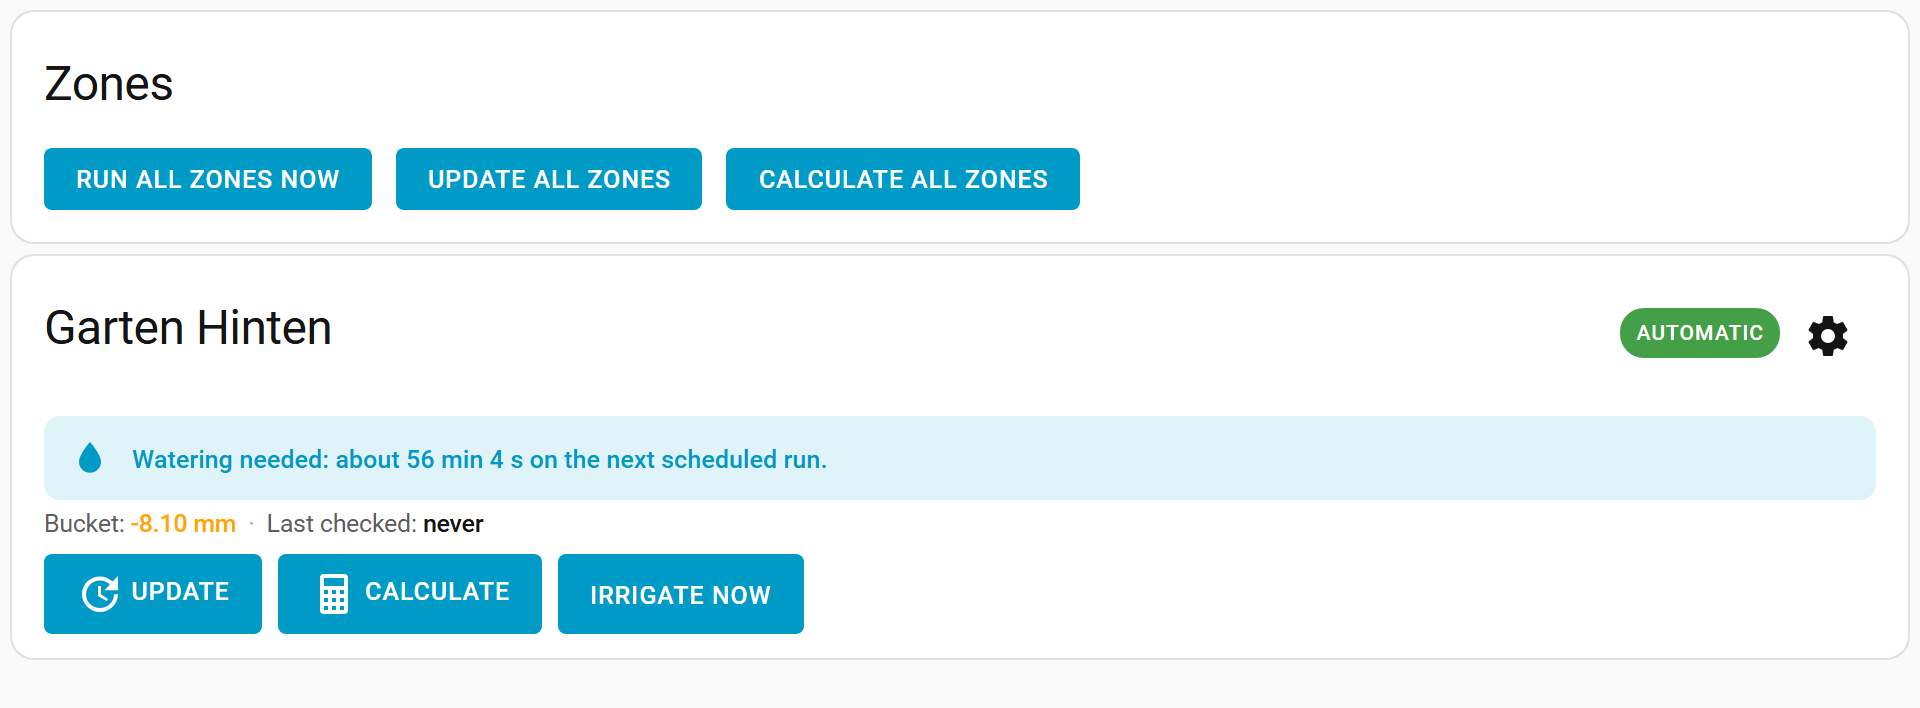
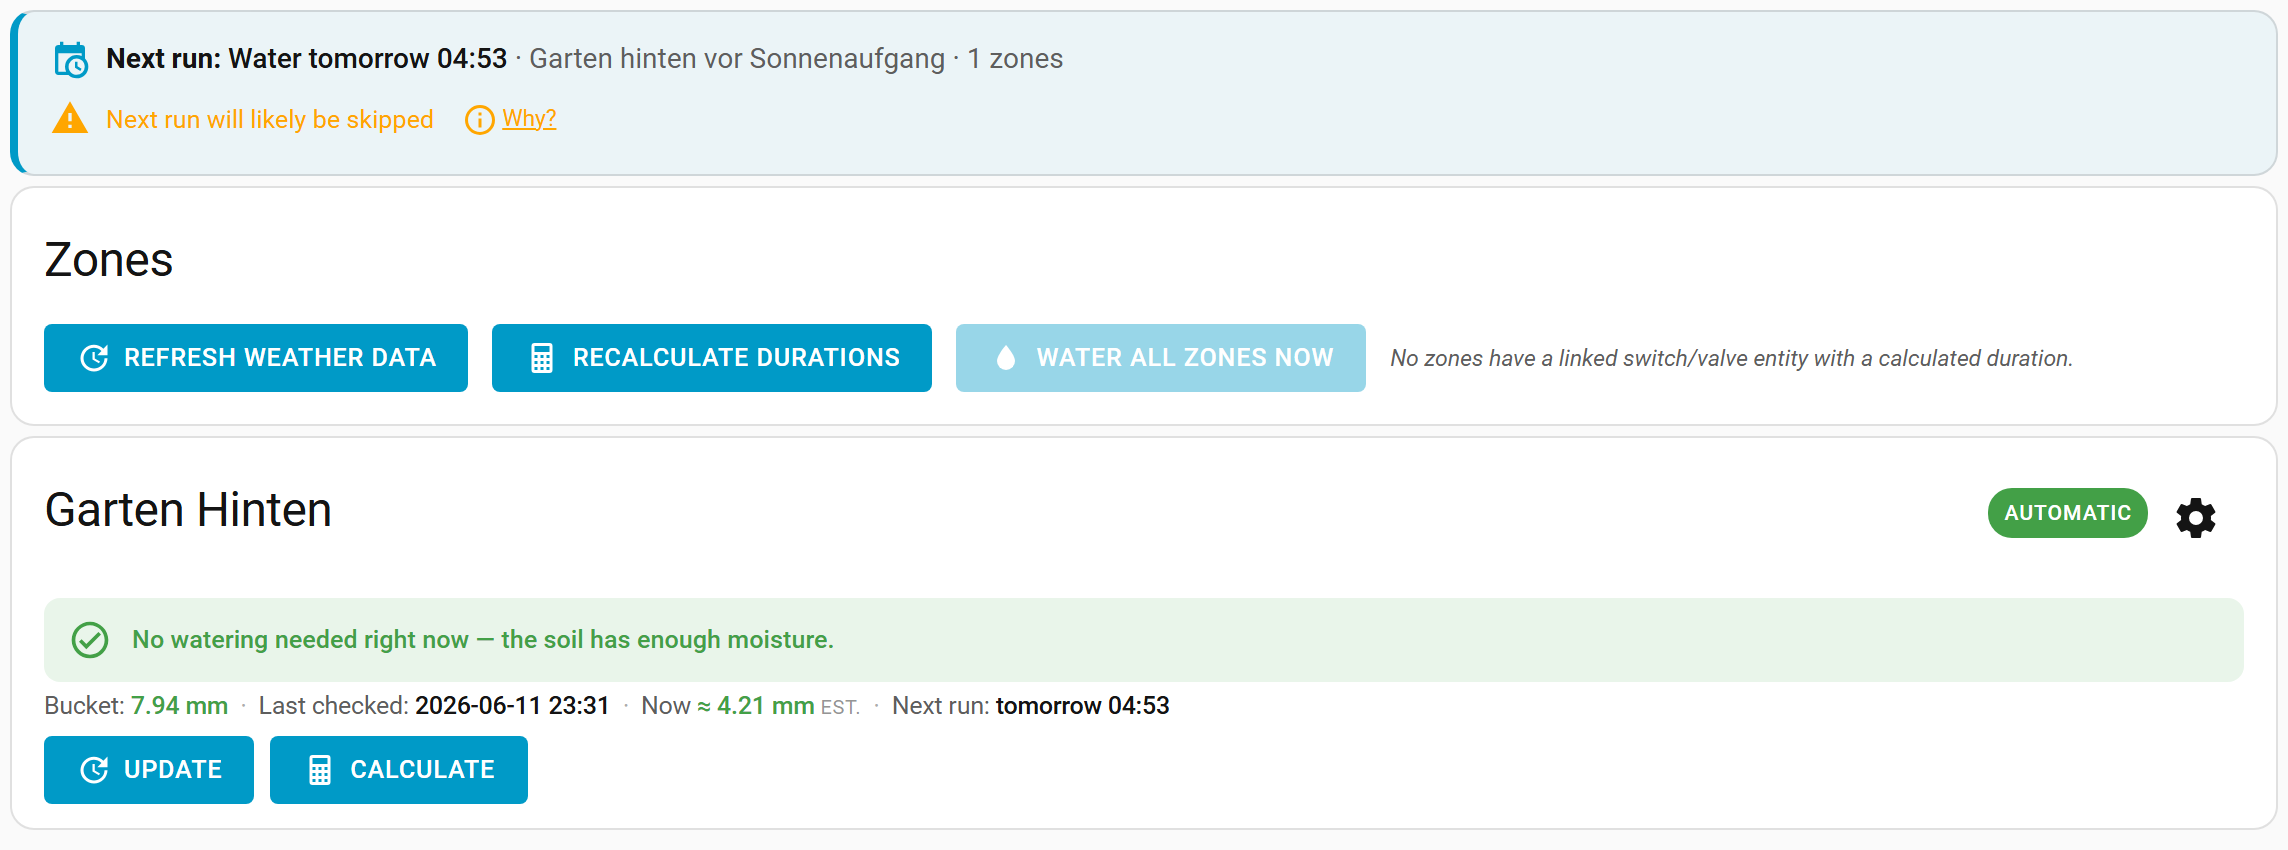
docs: fix remaining configuration drift + refresh dashboard screenshot
Second pass over the configuration pages against the live UI:
- zones: document the Flow meter sensor and Minimum deficit to irrigate
  fields; settings are shown inline (no "Settings" accordion); remove the
  per-zone "View weather data" / "View watering calendar" tools (they moved
  to the Weather & Location tab); correct the dashboard button labels
- general: drop the contradictory "weather data is deleted after
  calculation" claim (data is consumed per-zone and pruned); fix a typo
- configuration: fix Setup-wizard access wording; correct what the
  Weather & Location and My Zones tabs actually show
- services: remove the obsolete delete_weather_data parameter; add set_state
- re-capture configuration-1.png (old global button labels were stale)

Changed region(s): [[0.0, 0.0, 1.0, 0.5282], [0.0, 0.5593, 1.0, 0.9633], [0.9688, 0.1864, 1.0, 0.2175]]

diff --git a/docs/configuration-zones.md b/docs/configuration-zones.md
@@ -20,7 +20,7 @@ Specify one or more irrigation zones here. The integration calculates irrigation
 Zones appear in two places:
 
 - The top-level **Zones** tab is the everyday **dashboard**. Each zone card shows an at-a-glance verdict (e.g. *"Watering needed: ~6 min"*, *"No watering needed"* or *"Turned off"*), a one-line status (bucket and when it was last checked), and the operational buttons **Update**, **Calculate** and **Irrigate now**. A gear icon on each card opens that zone's settings.
-- **Setup → My Zones** is where you **add, configure and delete** zones, and view per-zone reporting (calculation explanation, weather data, watering calendar). The sections below ("Adding a zone", "Configuring a zone") all live here.
+- **Setup → My Zones** is where you **add, configure and delete** zones, and view each zone's **calculation explanation**. (Weather records, the forecast and the watering calendar are no longer per-zone — they live once on the **Weather & Location** tab.) The sections below ("Adding a zone", "Configuring a zone") all live here.
 
 ## Multi-zone support
 For irrigation systems that have multiple zones which you want to run in series or independent you need to create multiple zones. The configuration should be done for each zone, including the area the zone covers and the corresponding settings.
@@ -32,18 +32,18 @@ Zones are added and configured under **Setup → My Zones**. Click the **+** but
 - **Size**: The size of this zone (m<sup>2</sup> or sq ft)
 - **Throughput**: The flow of this zone (liter/minute or gallon/minute)
 
-After clicking **Add**, the new zone appears in the list (and as an entity in Home Assistant). Expand its **Settings** to finish configuring it.
+After clicking **Add**, the new zone appears in the list (and as a device with entities in Home Assistant), with its settings shown directly underneath so you can finish configuring it.
 
 ![](assets/images/configuration-zones-1.png)
 
 ## Actions on all automatic Zones
 These bulk actions are split across the two surfaces:
 
-- **Update all zones** / **Calculate all zones** — on the **Zones** dashboard (top tab): collect weather data for, and recalculate the duration of, every automatic zone.
+- **Refresh weather data** / **Recalculate durations** / **Water all zones now** — on the **Zones** dashboard (top tab): collect weather data for, recalculate the duration of, or immediately irrigate every automatic zone.
 - **Reset all buckets** / **Clear all weather data** — under **Setup → My Zones → Bulk Actions**: reset every automatic zone's bucket to `0`, or remove all collected weather data for the [sensor groups](configuration-sensor-groups.md) in use. Both ask for confirmation first.
 
 ## Configuring a zone
-Open **Setup → My Zones**, expand a zone's **Settings**, and you can change:
+Open **Setup → My Zones**. Each zone's settings are shown directly under its name (no need to expand anything), and you can change:
 
 - **Name**: change the name of a zone
 - **Size**: change the size of a zone
@@ -55,6 +55,8 @@ Open **Setup → My Zones**, expand a zone's **Settings**, and you can change:
   - _Disabled_: The zone is disabled. No updating and calculation of that zone. Setting a [module](configuration-modules.md) and [sensor group](configuration-sensor-groups.md) on the zone is optional.
 - **Module**: Choose the [calculation module](configuration-modules.md) that should be used to calculate irrigation for the zone.
 - **Sensor group**: Choose the [sensor group](configuration-sensor-groups.md) that provides the weather data for this zone.
+- **Linked switch/valve entity**: Optionally control a valve directly — see [Linked entity](#linked-entity) below.
+- **Flow meter sensor** (optional): A sensor reporting the zone's actual water flow. When set, irrigation can run until the measured volume is reached instead of relying purely on the calculated time.
 - **Bucket**: Either calculated or manually set. If `bucket >= 0` then no irrigation is necesarry, if `bucket < 0` irrigation is necessary. See [automations](usage-automations.md) for examples on how to use this value to decide to irrigate.
 - **Maximum bucket**: You can manually set a maximum bucket size which represents the soil's water holding capacity. The maximum recommended bucket size is based on the type of soil:
     - clay soil: 30 mm (1.18")
@@ -66,7 +68,8 @@ This recommendation is based on the soil water holding capacity. See [this discu
 - **Multiplier**: Multiplies / divides the duration of the irrigation. For lawns, it is recommended to set the multiplier depending on your grass type (See [this discussion for more details](https://github.com/JustChr/HAsmartirrigation/discussions/448)):
     * Cool-reason grasses (such as fescue, bluegrass) should be set to `0.8`
     * Warm-season grasses (such as bermuda, zoysia) should be set to `0.7`. 
-- **Duration**: Irrigation duration in seconds. Either calculated or manually set.
+- **Minimum deficit to irrigate**: How large the moisture deficit must be before the zone is considered to need watering. It is stored as a 0-or-negative value (mm/inch); the default is `-10`, meaning the bucket must reach −10 mm before irrigation is triggered. Set it to `0` to irrigate as soon as there is any deficit, or to a more negative value to water less often but more deeply.
+- **Duration**: Irrigation duration in seconds. Either calculated or manually set (manual zones only).
 
 ### Linked entity {#linked-entity}
 
@@ -89,15 +92,15 @@ On the **Zones** dashboard, each zone card shows an at-a-glance verdict, a one-l
 ![](assets/images/configuration-zones-2.png)
 
 * **Update** — Collect weather data from the sensor group for the zone.
-* **Calculate** — Recalculate the zone's irrigation duration. Weather data for the zone's sensor group is deleted after calculation.
+* **Calculate** — Recalculate the zone's irrigation duration. The zone consumes only the weather data it needs (the shared buffer is kept for other zones and pruned automatically).
 * **Irrigate Now** — Immediately turn on the zone's [linked entity](#linked-entity) for the calculated duration, then turn it off. Bypasses all skip conditions. Shown disabled with a hint until the zone has a linked entity.
 
-The remaining per-zone tools live under **Setup → My Zones**, in each zone's expandable panels:
+The remaining per-zone tools live under **Setup → My Zones**:
 
-* **Calculation explanation** — After a calculation, a detailed breakdown of how the bucket was updated and how the lead time and multiplier affected the final duration.
-* **View weather data** — The last 10 weather data records for the zone's sensor group.
-* **View watering calendar** — View a 12-month estimated watering calendar based on the zone's location and typical weather patterns.
-* **Delete** — Remove the zone. 
+* **Calculation explanation** — Expand a zone's **Information** panel for a detailed breakdown of how the bucket was updated and how the lead time and multiplier affected the final duration.
+* **Delete** — Remove the zone.
+
+> Weather records, the forecast and the 12-month watering calendar are no longer shown per zone — they apply to your whole location, so they now live once on the **Weather & Location** tab.
 
 > Main page: [Configuration](configuration.md)<br/>
 > Previous: [General configuration](configuration-general.md)<br/>

diff --git a/docs/configuration-general.md b/docs/configuration-general.md
@@ -15,12 +15,12 @@ This page covers the global, set-once settings. In the panel they are spread acr
 The settings below are documented together by topic.
 
 ### Automatic weather data update
-If enabled, specify how often sensor update should happen (minutes, hours, days). You can also set up an update delay to be used to delay the first update. THis is useful in case your sensors do not provide a value immediately after Home Assistant starts.
+If enabled, specify how often the weather-data update should happen (minutes, hours, days). You can also set an update delay to postpone the first update — useful in case your sensors do not provide a value immediately after Home Assistant starts.
 
-As calculation needs weatherdata make sure to update your weather data at least once before calculating.
+As calculation needs weather data, make sure to update your weather data at least once before calculating.
 
 ### Automatic duration calculation
-If enabled, set the time of calculation (HH:MM). Calculation uses weatherdata that is collected in updates to determine irrigation duration. After automatic calculation has happened used weatherdata is deleted.
+If enabled, set the time of calculation (HH:MM). Calculation uses the weather data collected by updates to determine the irrigation duration. During calculation each zone consumes only the readings it needs (anchored to its own watermark) — the shared weather data is **not** wiped, so other zones keep their history.
 
 > **Note:** weather data is now pruned **automatically**. Each zone consumes the weather data it needs during calculation, and old readings are pruned from the shared buffer once every zone that needs them has consumed them (with a hard cap of a few days). There is no longer a "pruning time" to configure, and the old timed *auto-clear* setting has been removed. You can still wipe everything manually via **Setup → My Zones → Bulk Actions → Clear all weather data**.
 

diff --git a/docs/configuration.md b/docs/configuration.md
@@ -10,7 +10,7 @@ You configure the integration from the Smart Irrigation panel in the Home Assist
 
 ## First-run setup wizard
 
-The first time you open the panel — or any time from **Setup → Setup wizard** — a guided wizard walks you through the four building blocks in order:
+The first time you open the panel — or any time via the **Setup wizard** button (top-right of the Setup tabs) — a guided wizard walks you through the four building blocks in order:
 
 ![](assets/images/setup-wizard-1.png)
 
@@ -27,8 +27,8 @@ The panel has two top-level areas:
 
 - **Zones** — the everyday **dashboard**. For each zone it shows at a glance whether it will water and why, plus one-tap **Update**, **Calculate** and **Irrigate now**. A gear icon on each card jumps to that zone's settings. See [Zones](configuration-zones.md).
 - **Setup** — everything you configure once and rarely touch. The tabs are grouped around what you're trying to do rather than the internal data model:
-  1. **Weather & Location** — your [weather service](installation-weatherservice.md) and location coordinates, plus the forecast and seasonal outlook. See [General configuration](configuration-general.md).
-  2. **My Zones** — add, edit and delete [zones](configuration-zones.md), link each to a switch/valve entity, and view per-zone weather data and the watering calendar.
+  1. **Weather & Location** — your [weather service](installation-weatherservice.md) and location coordinates, plus the weather forecast, per-source weather records, the seasonal outlook and the watering calendar. See [General configuration](configuration-general.md).
+  2. **My Zones** — add, edit and delete [zones](configuration-zones.md), link each to a switch/valve entity, and view each zone's calculation explanation.
   3. **When to Water** — the automatic update/calculation times, [zone sequencing](configuration-general.md#zone-sequencing), [skip conditions](configuration-general.md#skip-conditions), days between irrigation, and [recurring schedules](configuration-schedules.md).
   4. **Advanced** — the raw [calculation modules](configuration-modules.md) (PyETO, Static, …) and [sensor groups](configuration-sensor-groups.md). Most setups never need to open these directly — the wizard wires them up for you.
   5. **Help** — links to this documentation and the community/issue trackers.

diff --git a/docs/usage-services.md b/docs/usage-services.md
@@ -11,8 +11,8 @@ title: Usage: Services
 After installation, the following services are available:
 | Service | Description|
 | --- | --- |
-|`Smart Irrigation: calculate_zone`|Triggers the calculation of one specific zone. Note that used weather data is deleted afterwards by default unless you specify `delete_weather_data: false`.|
-|`Smart Irrigation: calculate_all_zones`|Triggers the calculation of all automatic zones. Use only if you disabled automatic refresh in the options. Note that after calculation weather data is deleted by default unless you specify `delete_weather_data: false`.|
+|`Smart Irrigation: calculate_zone`|Triggers the calculation of one specific zone. The zone consumes only the weather data it needs; the shared buffer is kept for other zones and pruned automatically.|
+|`Smart Irrigation: calculate_all_zones`|Triggers the calculation of all automatic zones. Use only if you disabled automatic calculation. Each zone consumes its own window of weather data; the buffer is pruned automatically afterwards.|
 |`Smart Irrigation: clear_all_weather_data`|Deletes all weather data|
 |`Smart Irrigation: generate_watering_calendar`|Generate a 12-month watering calendar for a zone based on representative climate data.|
 |`Smart Irrigation: reset_all_buckets`|Resets all buckets to 0.|
@@ -21,6 +21,7 @@ After installation, the following services are available:
 |`Smart Irrigation: set_all_multipliers`|Sets all multipliers to a specific `new_multiplier_value` (default is 1.0).|
 |`Smart Irrigation: set_bucket`|Sets a specific bucket to to a specific `new_bucket_value` (default is 0).|
 |`Smart Irrigation: set_multiplier`|Sets a specific multiplier to a specific `new_multiplier_value` (default is 1.0).|
+|`Smart Irrigation: set_state`|Sets a zone's state to a specific `new_state_value` (`automatic`, `manual` or `disabled`).|
 |`Smart Irrigation: set_zone`| Allows configuration for bucket (with `new_bucket_value` (default 0)), multiplier (with `new_multiplier_value` (default 1.0)), duration (with `new_duration_value` (default 0)), state (with `new_state_value` (default 'automatic')) and throughput (with `new_throughput_value` (default 50)) settings for a zone.|
 |`Smart Irrigation: update_all_zones`|Updates all automatic zones with weather data|
 |`Smart Irrigation: update_zone`|Updates one specific zone with weather data|